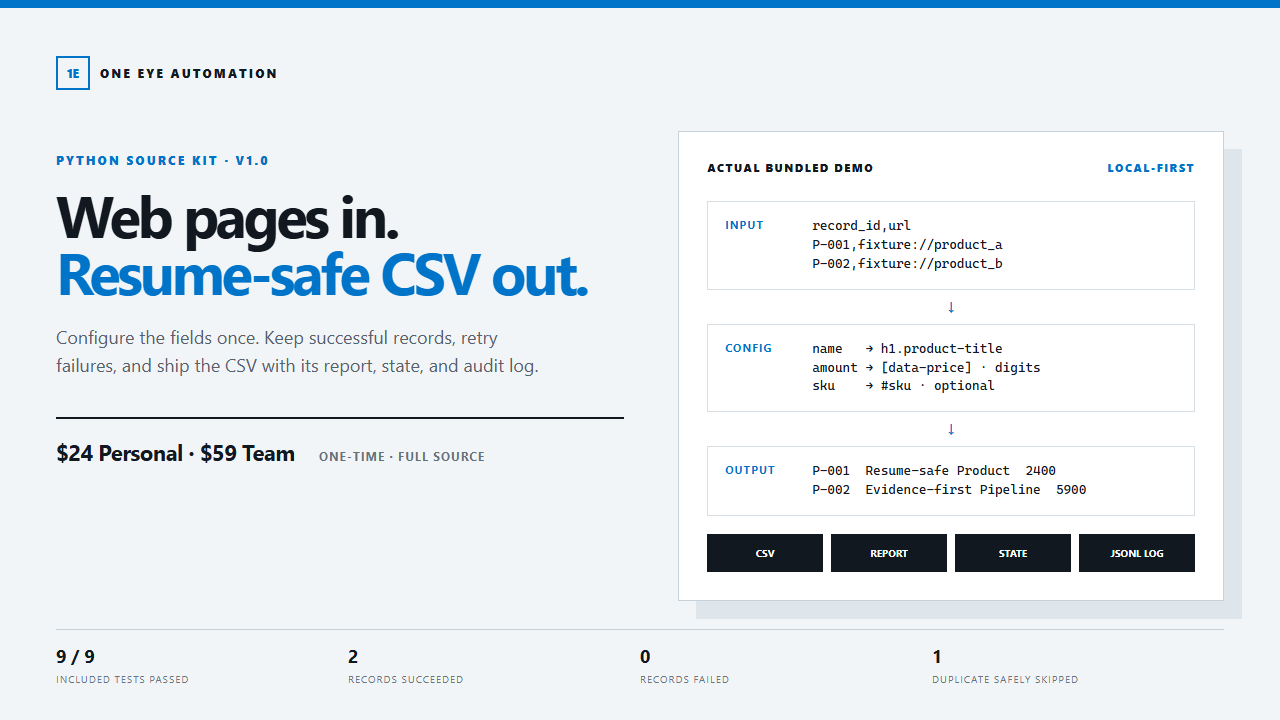
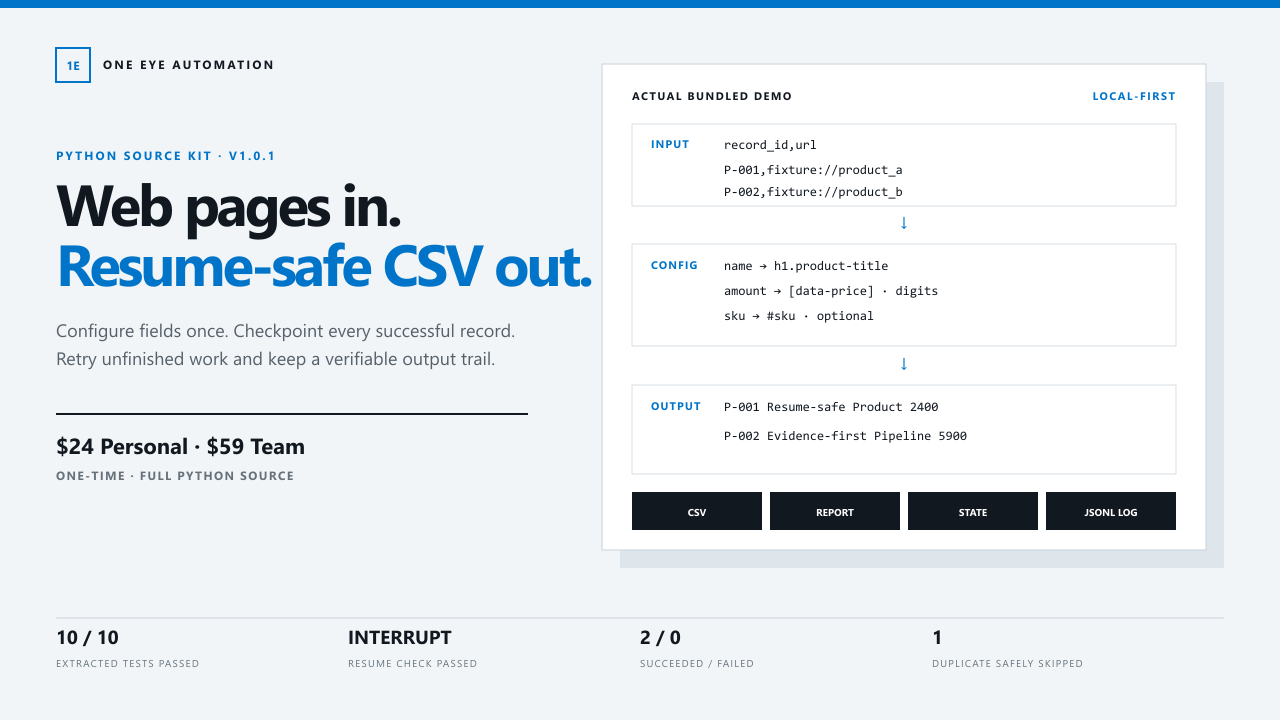
Release interruption-safe pipeline kit v1.0.1

diff --git a/README.md b/README.md
@@ -1,4 +1,4 @@
-# Resumable Web-to-CSV Pipeline Kit
+# Resumable Web-to-CSV Pipeline Kit v1.0.1
 
 A tested Python + Playwright source kit for collecting structured data from
 pages you own or have permission to automate.
@@ -11,13 +11,14 @@ pages you own or have permission to automate.
 
 - Config-driven URL, field, selector, and output settings
 - Retry handling for transient failures
-- Resume state that skips completed records after interruption
+- Per-record durable checkpoints that skip completed records after interruption
 - Duplicate-ID protection
 - Atomic CSV and state-file writes
 - Safe JSONL logs and an HTML run report
 - Offline fixture demo, tests, and full Python source
 
-The extracted delivery archive passed **9/9 tests**. Its included demo processed
+The extracted delivery archive passed **10/10 tests**, including a real
+process-interruption resume check. Its included demo processed
 **2 records successfully, 0 failed, and skipped 1 duplicate safely**.
 
 ![Actual demo report and test evidence](assets/proof.png)
